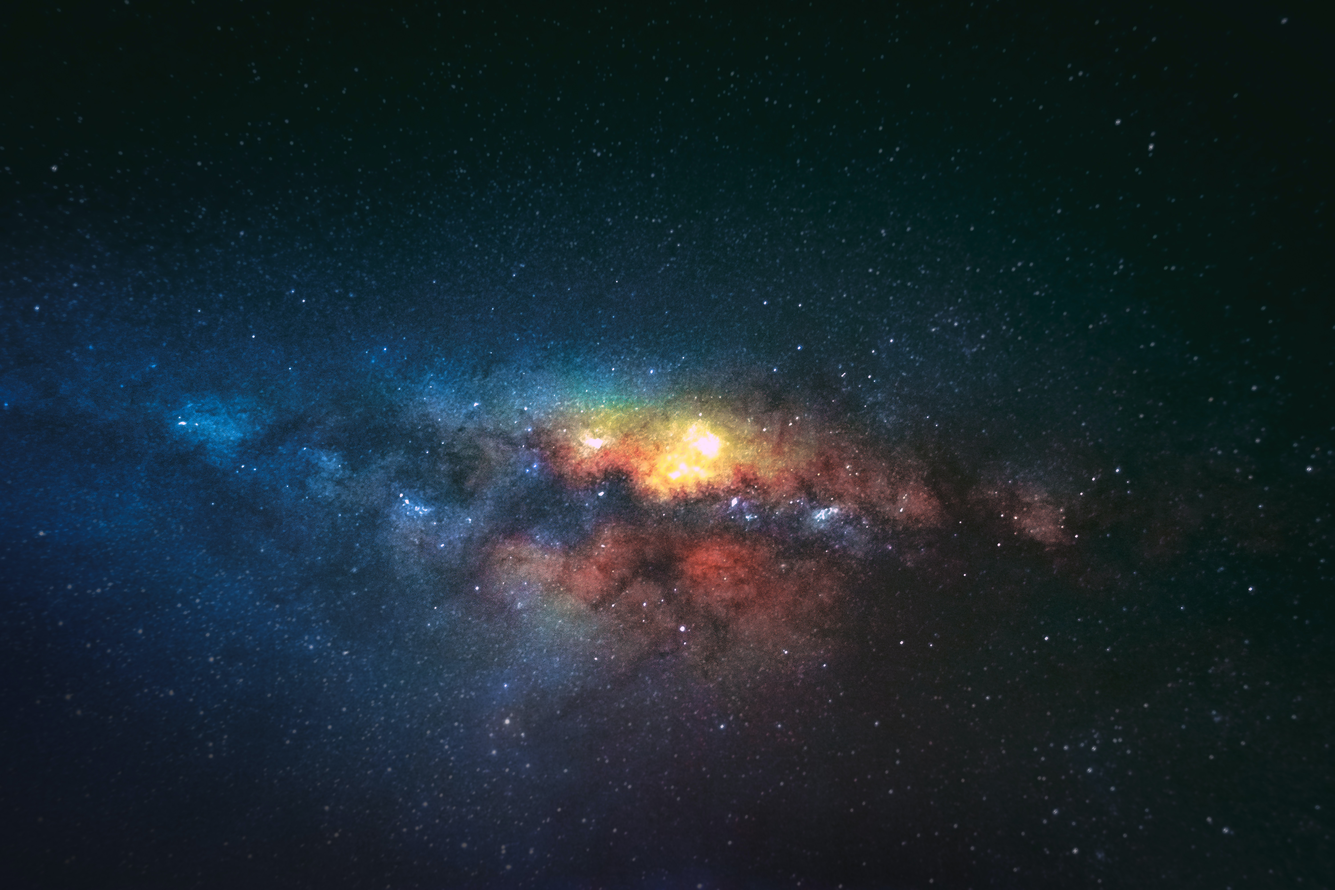
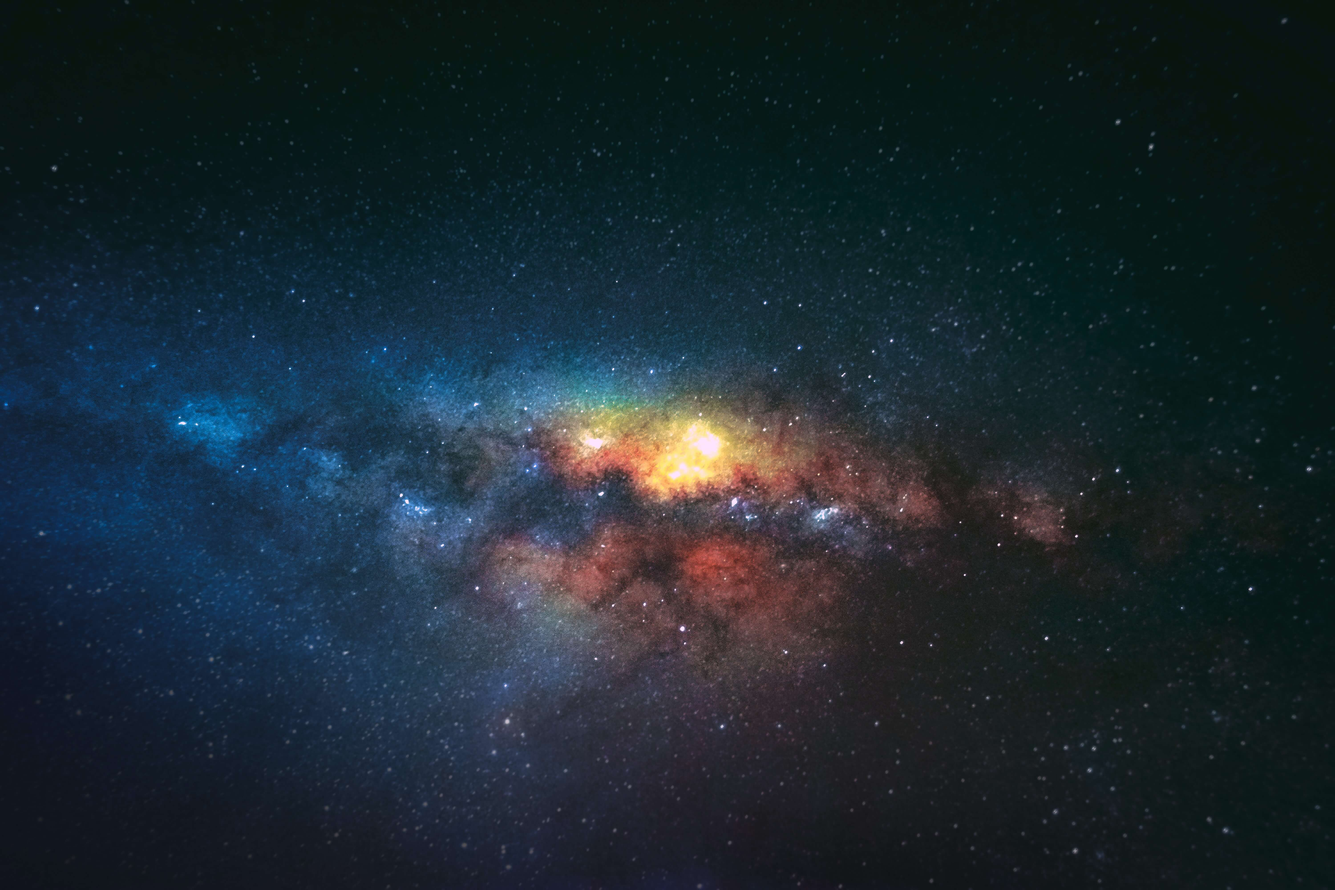
reduced jumbotron img size

diff --git a/css/style.css b/css/style.css
@@ -14,8 +14,7 @@
 
 /* jumbotron */
 .jumbotron {
-    background-image: url(/Images/about.jpg);
-    /* background-image: url(/Images/jumbotron.jpg); */
+    background-image: url(/Images/jumbotron.jpg);
     background-size: cover;
     height: 93vh;
 }
